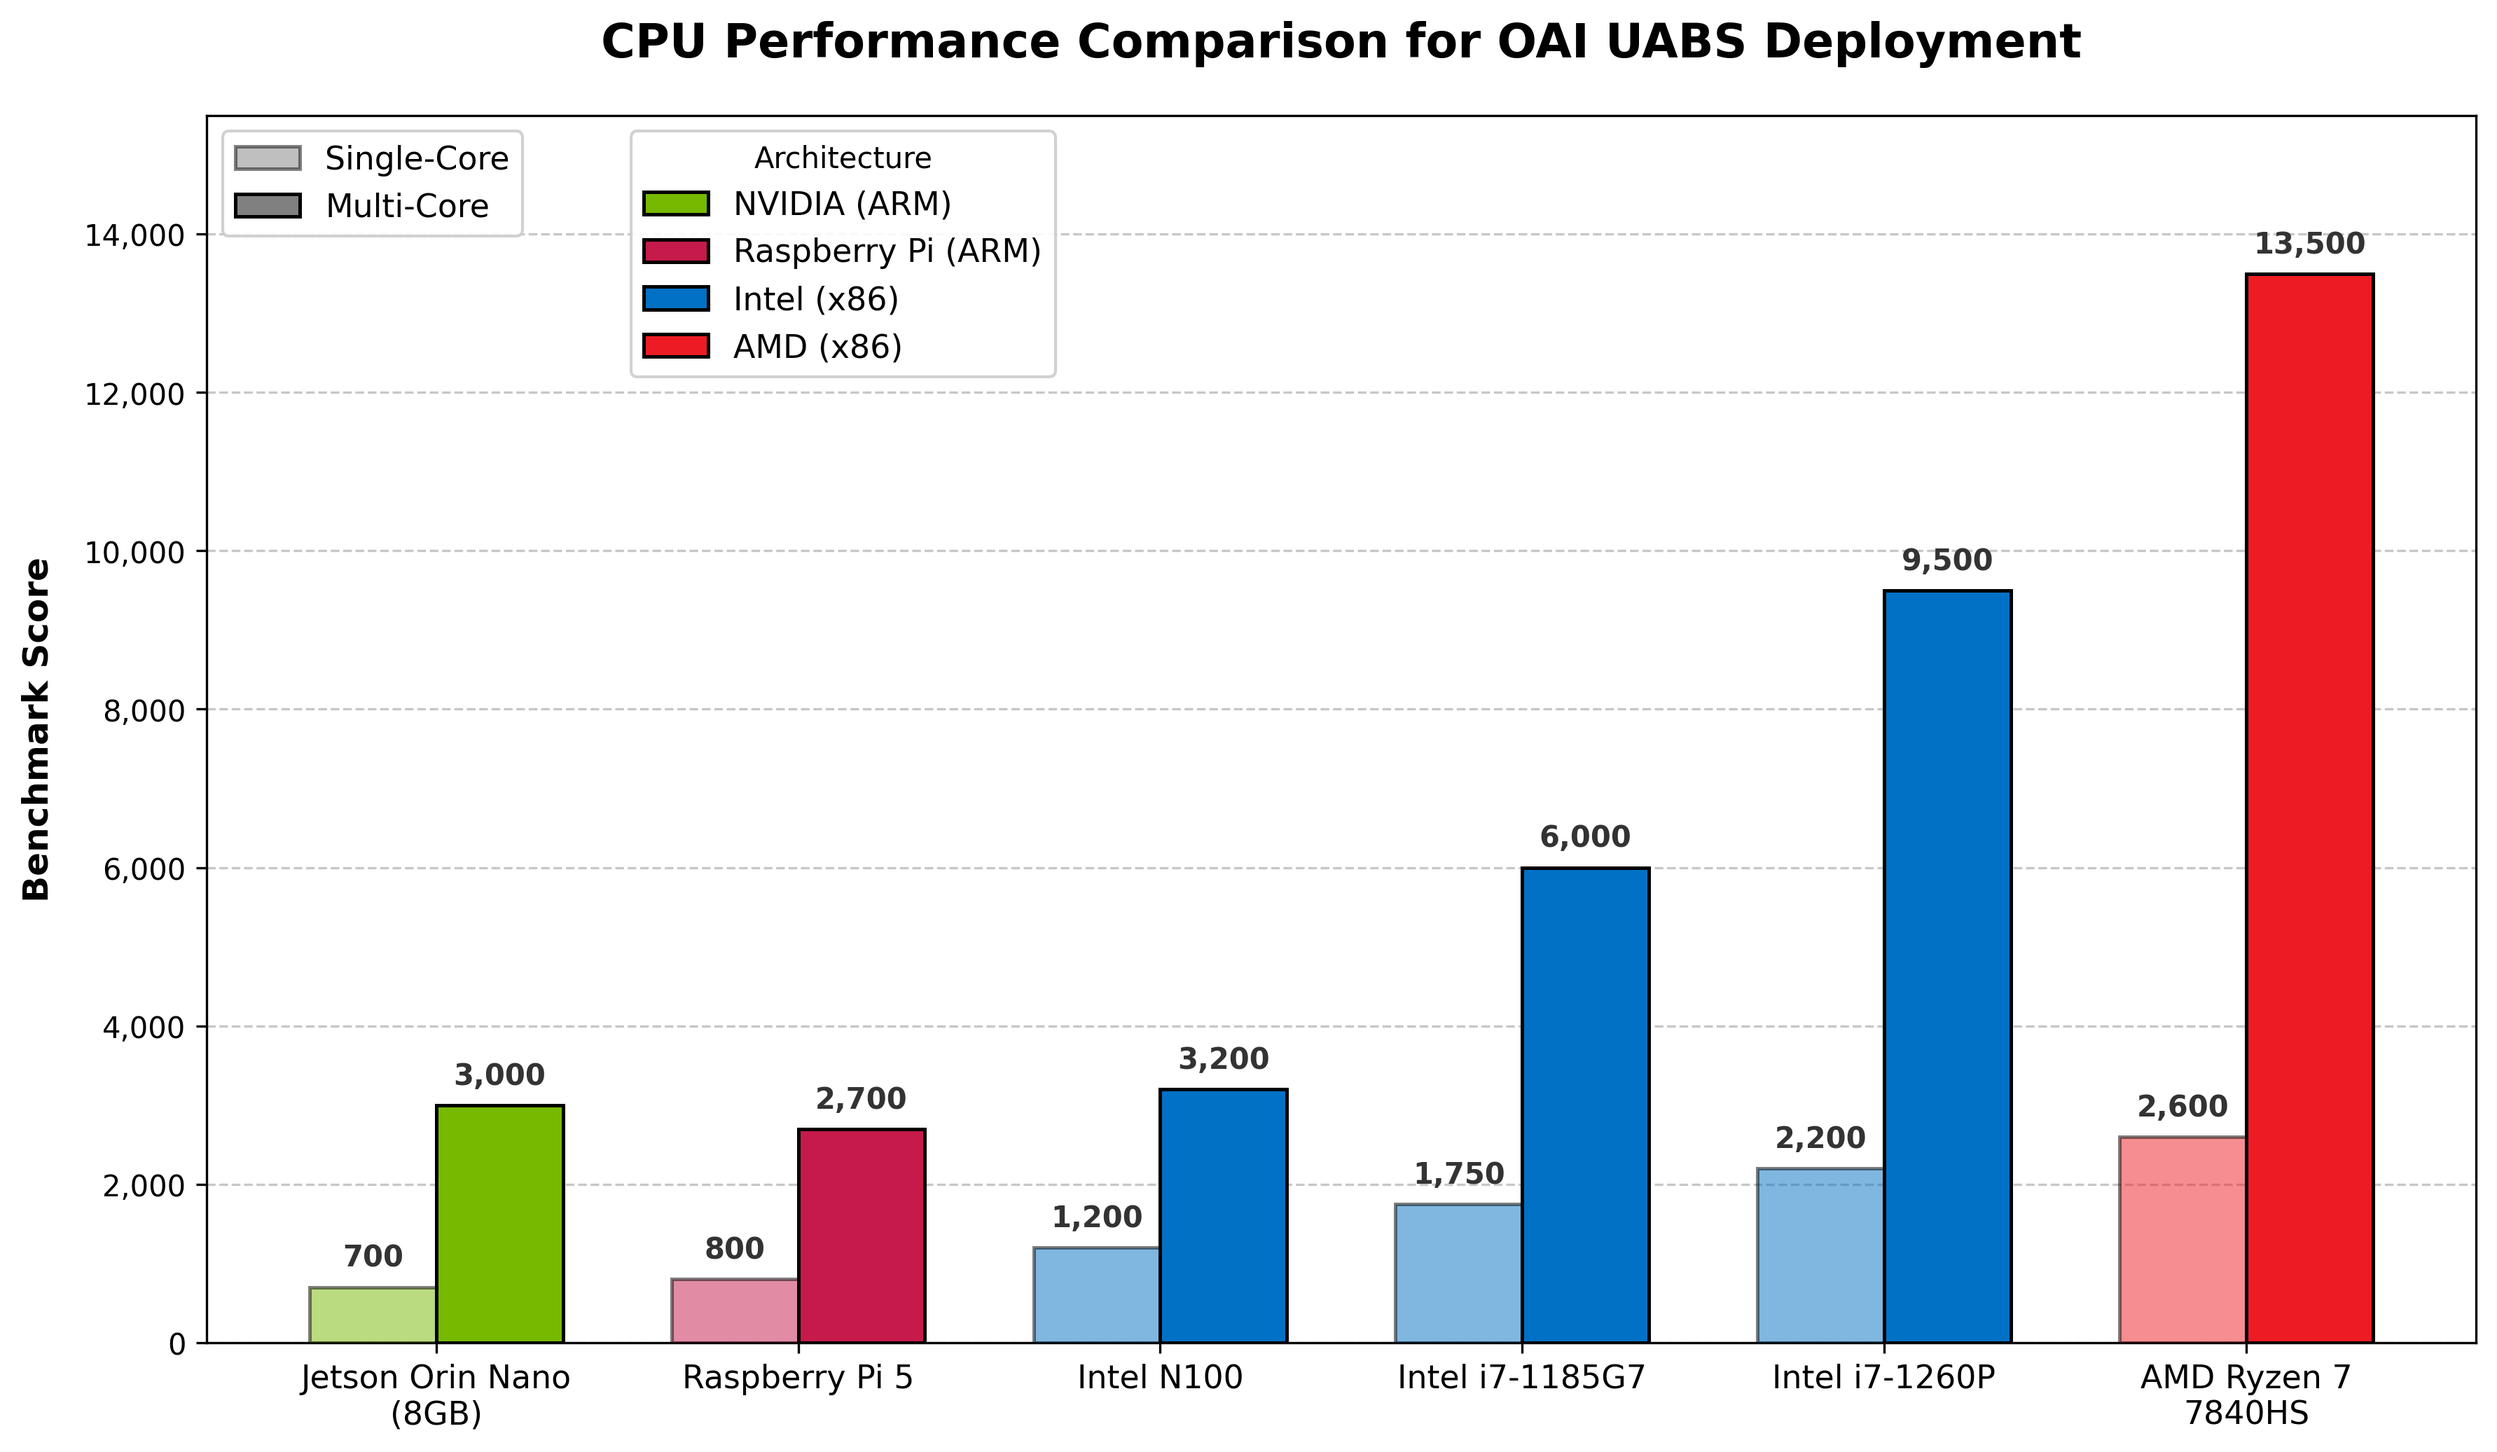
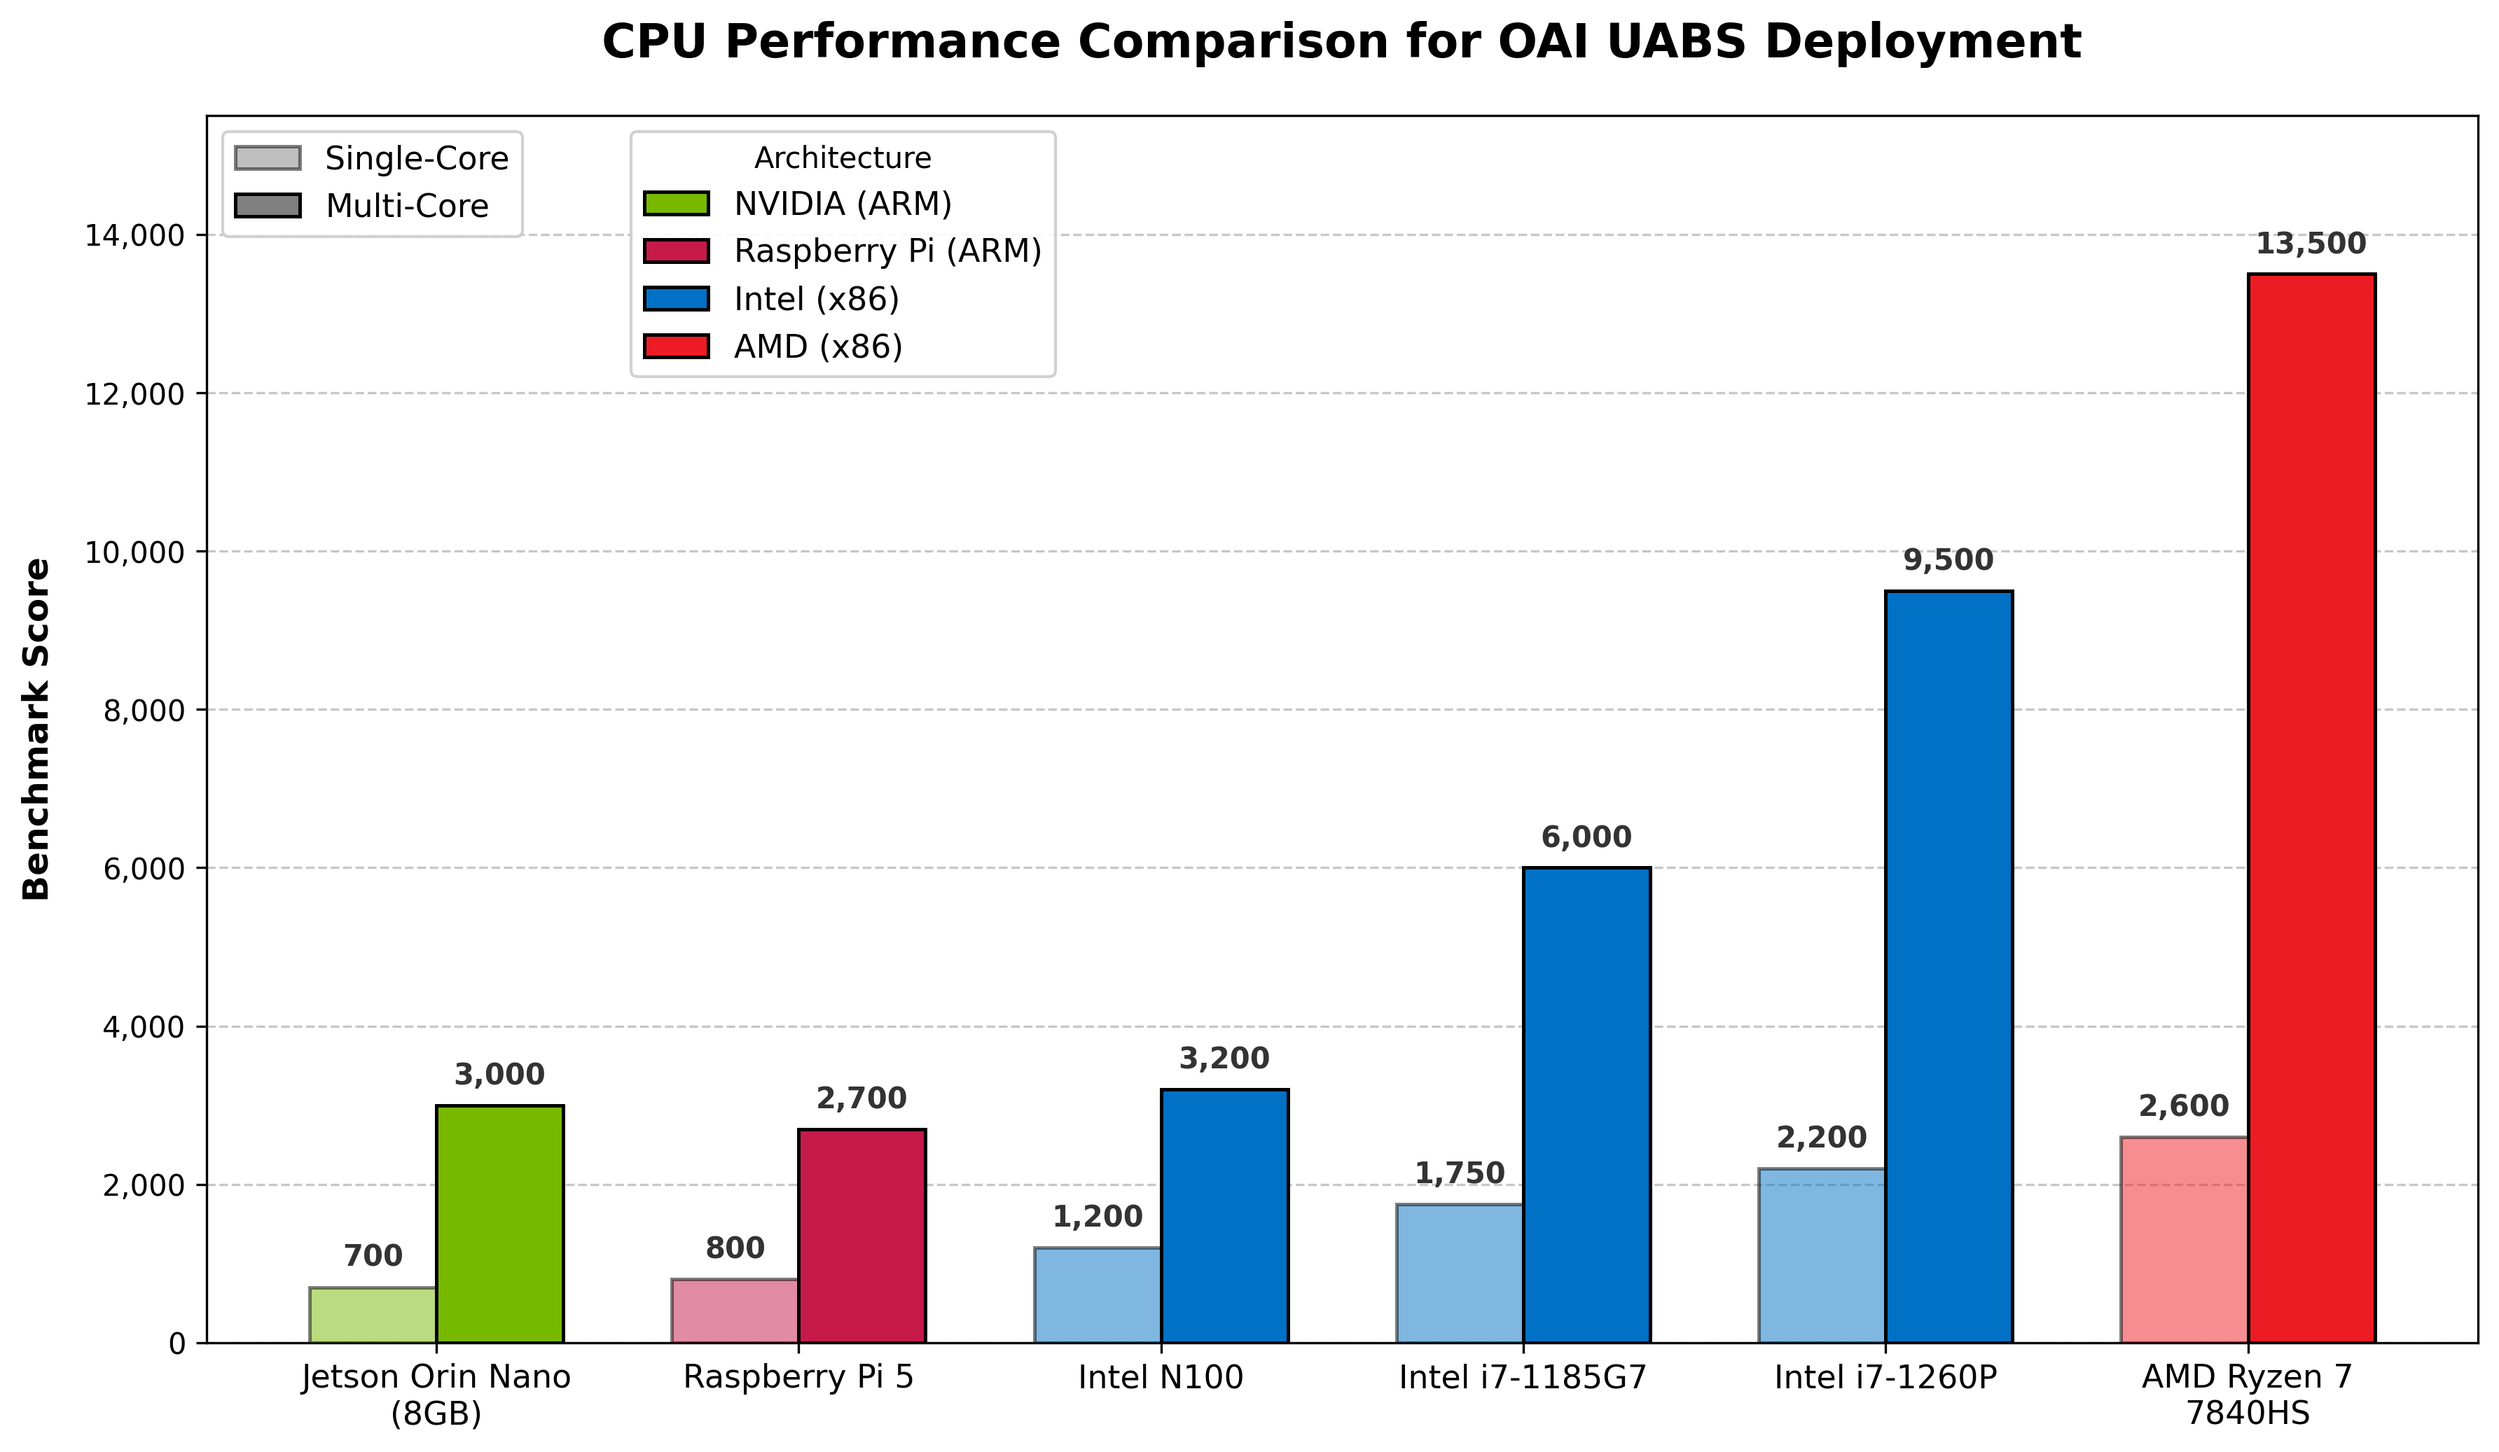
pres1 finale

diff --git a/docs/obsidian/KAUST INTERNSHIP/pres1/plot_graph6.py b/docs/obsidian/KAUST INTERNSHIP/pres1/plot_graph6.py
@@ -15,7 +15,6 @@ devices = [
 single_scores = [700, 800, 1200, 1750, 2200, 2600]
 multi_scores = [3000, 2700, 3200, 6000, 9500, 13500]
 
-# Brand color mapping
 colors = [
     "#76B900", # Jetson
     "#C51A4A", # Raspberry Pi
@@ -30,21 +29,16 @@ width = 0.35
 
 fig, ax = plt.subplots(figsize=(12, 7))
 
-# Single-Core Bars (Lighter/transparent to distinguish from Multi-Core)
 rects1 = ax.bar(x - width/2, single_scores, width, label='Single-Core', color=colors, alpha=0.5, edgecolor='black', linewidth=1.2, zorder=3)
-# Multi-Core Bars (Solid brand colors)
 rects2 = ax.bar(x + width/2, multi_scores, width, label='Multi-Core', color=colors, edgecolor='black', linewidth=1.2, zorder=3)
 
-# Axis labels and title
 ax.set_ylabel('Benchmark Score', fontsize=12, fontweight='bold', labelpad=10)
 ax.set_title('CPU Performance Comparison for OAI UABS Deployment', pad=20, fontsize=16, fontweight='bold')
 ax.set_xticks(x)
 ax.set_xticklabels(devices, fontsize=11, fontweight='500')
 
-# Format y-axis with comma separators
 ax.get_yaxis().set_major_formatter(ticker.FuncFormatter(lambda x, p: format(int(x), ',')))
 
-# Custom legend to clarify Single vs Multi-core
 core_legend_elements = [
     Patch(facecolor='gray', alpha=0.5, edgecolor='black', linewidth=1.2, label='Single-Core'),
     Patch(facecolor='gray', alpha=1.0, edgecolor='black', linewidth=1.2, label='Multi-Core')
@@ -52,7 +46,6 @@ core_legend_elements = [
 core_legend = ax.legend(handles=core_legend_elements, loc='upper left', fontsize=11, framealpha=0.9)
 ax.add_artist(core_legend)
 
-# Brand/Architecture legend
 arch_legend_elements = [
     Patch(facecolor='#76B900', edgecolor='black', linewidth=1.2, label='NVIDIA (ARM)'),
     Patch(facecolor='#C51A4A', edgecolor='black', linewidth=1.2, label='Raspberry Pi (ARM)'),
@@ -61,19 +54,15 @@ arch_legend_elements = [
 ]
 ax.legend(handles=arch_legend_elements, loc='upper left', bbox_to_anchor=(0.18, 1), fontsize=11, framealpha=0.9, title="Architecture")
 
-# Grid lines
 ax.grid(axis='y', linestyle='--', alpha=0.7, zorder=0)
-
-# Set upper limit slightly higher to leave room for labels
 ax.set_ylim(0, 15500)
 
 def autolabel(rects):
-    """Attach a text label above each bar in *rects*, displaying its height."""
     for rect in rects:
         height = rect.get_height()
         ax.annotate(f'{int(height):,}',
                     xy=(rect.get_x() + rect.get_width() / 2, height),
-                    xytext=(0, 5),  # 5 points vertical offset
+                    xytext=(0, 5),
                     textcoords="offset points",
                     ha='center', va='bottom', fontsize=10, 
                     rotation=0, fontweight='bold', color='#333333')
@@ -83,7 +72,6 @@ autolabel(rects2)
 
 fig.tight_layout()
 
-# Save the plot
-output_path = '/home/oai/kaust-5G-research/docs/obsidian/KAUST INTERNSHIP/pres1/graph6_benchmark_comparison.png'
+output_path = '/Users/promaa/Documents/kaust-5G-research/docs/obsidian/KAUST INTERNSHIP/pres1/graph6_benchmark_comparison.png'
 plt.savefig(output_path, dpi=300, bbox_inches='tight')
 print(f"Graph successfully saved to {output_path}")

diff --git a/docs/obsidian/KAUST INTERNSHIP/pres1/plot_graph6_power_efficiency.py b/docs/obsidian/KAUST INTERNSHIP/pres1/plot_graph6_power_efficiency.py
@@ -1,0 +1,54 @@
+import matplotlib.pyplot as plt
+import numpy as np
+from matplotlib.patches import Patch
+
+devices = [
+    "Jetson Orin Nano", 
+    "Raspberry Pi 5", 
+    "Intel N100", 
+    "Intel i7-1185G7", 
+    "Intel i7-1260P", 
+    "AMD Ryzen 7 7840HS"
+]
+
+tdp = [15, 8, 6, 28, 28, 38]
+single_scores = [700, 800, 1200, 1750, 2200, 2600]
+multi_scores = [3000, 2700, 3200, 6000, 9500, 13500]
+
+single_eff = [s / t for s, t in zip(single_scores, tdp)]
+multi_eff = [m / t for m, t in zip(multi_scores, tdp)]
+
+colors = ["#76B900", "#C51A4A", "#0071C5", "#0071C5", "#0071C5", "#ED1C24"]
+
+x = np.arange(len(devices))
+width = 0.35
+
+fig, ax = plt.subplots(figsize=(12, 7))
+
+rects1 = ax.bar(x - width/2, single_eff, width, label='Single-Core', color=colors, alpha=0.5, edgecolor='black', linewidth=1.2)
+rects2 = ax.bar(x + width/2, multi_eff, width, label='Multi-Core', color=colors, edgecolor='black', linewidth=1.2)
+
+ax.set_ylabel('Performance / Watt (Score per Watt)', fontsize=12, fontweight='bold')
+ax.set_title('CPU Power Efficiency Comparison for UAV Base Station Deployment', fontsize=14, fontweight='bold')
+ax.set_xticks(x)
+ax.set_xticklabels(devices, fontsize=11)
+
+for rect, val in zip(rects1, single_eff):
+    ax.annotate(f'{val:.0f}', xy=(rect.get_x() + rect.get_width()/2, val), xytext=(0, 3), textcoords='offset points', ha='center', fontsize=9)
+for rect, val in zip(rects2, multi_eff):
+    ax.annotate(f'{val:.0f}', xy=(rect.get_x() + rect.get_width()/2, val), xytext=(0, 3), textcoords='offset points', ha='center', fontsize=9)
+
+arch_elements = [
+    Patch(facecolor='#76B900', edgecolor='black', label='NVIDIA ARM'),
+    Patch(facecolor='#C51A4A', edgecolor='black', label='Raspberry Pi ARM'),
+    Patch(facecolor='#0071C5', edgecolor='black', label='Intel x86'),
+    Patch(facecolor='#ED1C24', edgecolor='black', label='AMD x86')
+]
+ax.legend(handles=arch_elements, loc='upper right', fontsize=10, title='Architecture')
+
+ax.grid(axis='y', linestyle='--', alpha=0.7)
+ax.set_ylim(0, 550)
+
+fig.tight_layout()
+plt.savefig('/Users/promaa/Documents/kaust-5G-research/docs/obsidian/KAUST INTERNSHIP/pres1/graph6_power_efficiency.png', dpi=300)
+print("Saved: graph6_power_efficiency.png")

diff --git a/docs/obsidian/KAUST INTERNSHIP/pres1/Meeting1.md b/docs/obsidian/KAUST INTERNSHIP/pres1/Meeting1.md
@@ -1,6 +1,5 @@
 ## **Research Progress Report**  1
 
----
 
 **Timeline:** April 7 - July 31, 2025 (16 weeks)
 
@@ -41,7 +40,7 @@ tegra-xusb controller enters SC7 low-power state on 2-5ms throughput variations
 | Jetson Orin Nano            | ~3 Gbps             | <40 MHz           |
 | 5G NR Minimum               | ~4.5 Gbps           | 50 MHz required   |
 
-
+$D=BW×S×C$
 
 ---
 
@@ -50,6 +49,8 @@ tegra-xusb controller enters SC7 low-power state on 2-5ms throughput variations
 
 ![Benchmark](graph6_benchmark_comparison.png)
 
+
+![[graph6_power_efficiency.png]]
 ---
 
 #### Summary: **Three Fundamental Limitations (Not Software-Correctable):**
@@ -59,6 +60,3 @@ tegra-xusb controller enters SC7 low-power state on 2-5ms throughput variations
 | CPU Processing  | AVX-512 (x86) vs. ARM Mismatch  | 40-60% Overhead                              |
 | USB Stability   | Aggressive power management     | Fatal disconnection: USRP crashes            |
 | Data Throughput | DMA bandwidth ceiling (~3 Gbps) | Throttled Performance: BW limited to <40 MHz |
-
-
----
